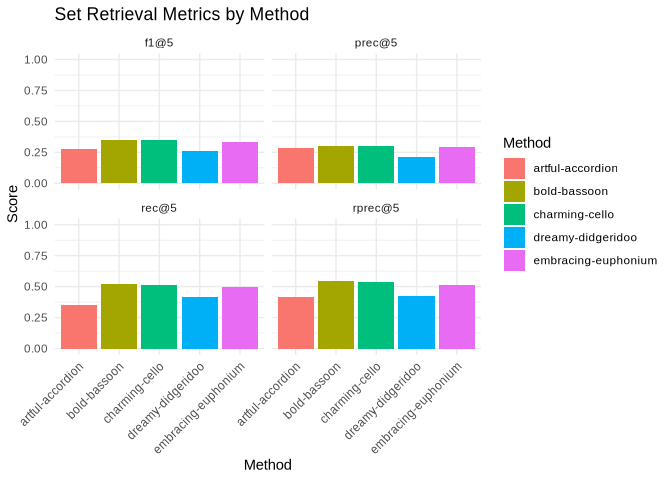
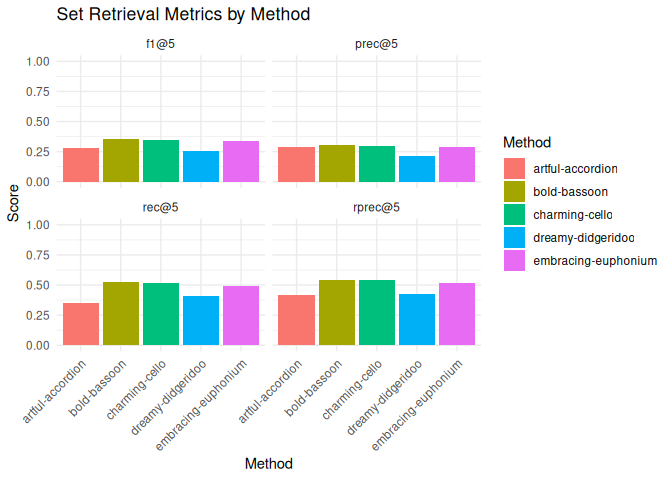
public_jc 20260107

diff --git a/workbooks/02_set-retrieval-metrics.md b/workbooks/02_set-retrieval-metrics.md
@@ -3,8 +3,8 @@ Maximilian Kähler, DNB
 
 - [Computing overall set retrieval
   metrics](#computing-overall-set-retrieval-metrics)
-- [Finding buttom and top performerming
-  labels](#finding-buttom-and-top-performerming-labels)
+- [Finding buttom and top performing
+  labels](#finding-buttom-and-top-performing-labels)
 - [Your Turn](#your-turn)
 - [Bonus: A short digression to modes of
   aggregation](#bonus-a-short-digression-to-modes-of-aggregation)
@@ -26,9 +26,7 @@ metrics such as precision, recall, and F1-score.
 #### More about metrics
 
 <details>
-
 <summary>
-
 Click to expand explanation of metrics
 </summary>
 
@@ -99,7 +97,7 @@ results <- map_dfr(
   .id = "Method"
 )
 
-# bring results to wide tible for better display
+# bring results to wide table for better display
 results |> 
   select(-support) |> 
   pivot_wider(
@@ -141,12 +139,9 @@ ggplot(results, aes(x = Method, y = value, fill = Method)) +
 ![](figures/02_set-retrieval-metrics/plot-metrics-1.png)
 
 <details>
-
 <summary>
-
 Note
 </summary>
-
 Some people prefer to “zoom-in” on a smaller scale of the y-range to
 emphasize the differences between methods. While this is sometimes
 acceptable for visualization purposes, be aware that this can be
@@ -155,10 +150,10 @@ the actual values in the data table to get a true sense of the
 performance differences.
 </details>
 
-## Finding buttom and top performerming labels
+## Finding buttom and top performing labels
 
 If you want to drill down into results on subject level, CASIMiR also
-provides functions to disect results on the intermediate aggregation
+provides functions to dissect results on the intermediate aggregation
 level. The above function `compute_set_retrieval_scores()` is just a
 convenient wrapper around three steps:
 
@@ -167,7 +162,7 @@ convenient wrapper around three steps:
 2.  `compute_intermediate_results()`: computes true positives, false
     positives, and false negatives on the desired aggregation level (per
     document or per subject).
-3.  `summarise_intermediate_results()` computes avarages of the
+3.  `summarise_intermediate_results()` computes averages of the
     intermediate results to yield the final precision, recall, and
     F1-score.
 
@@ -199,7 +194,7 @@ intermed |>
   select(label_id, label_text_eng, tp, fp, fn, prec, rec, f1) |> 
   head(n = 10) |> 
   kable(
-    caption = "Best performing subject terms for artful-accordion with a mininimum of
+    caption = "Best performing subject terms for artful-accordion with a minimum of
      20 gold standard instances."
   )
 ```
@@ -217,8 +212,8 @@ intermed |>
 | 974041238 | Resilience                 |  13 |   1 |  14 | 0.9285714 | 0.4814815 | 0.6341463 |
 | 042979293 | Mindfulness                |  12 |   4 |  10 | 0.7500000 | 0.5454545 | 0.6315789 |
 
-Best performing subject terms for artful-accordion with a mininimum of
-20 gold standard instances.
+Best performing subject terms for artful-accordion with a minimum of 20
+gold standard instances.
 
 ``` r
 intermed |>
@@ -297,7 +292,7 @@ avoids zero-division issues. To be coherent with other packages like
 [scikit-learn](https://scikit-learn.org/stable/modules/generated/sklearn.metrics.f1_score.html),
 you can change this behaviour by using the argument
 `replace_zero_division_with = 0` which will set precision to 0 for
-documents or subject terms with no predictions, if they have occurences
+documents or subject terms with no predictions, if they have occurrences
 in the gold standard.
 
 Observe how much this can influence the overall value of precision and

diff --git a/workbooks/01_inspecting-results-manually.md b/workbooks/01_inspecting-results-manually.md
@@ -88,7 +88,7 @@ the document.
 ### Gold Standard Data
 
 Each of the document titles was manually annotated by subject experts of
-the DNB with subject terms from the Inegrated Authority File (GND).
+the DNB with subject terms from the Integrated Authority File (GND).
 Similar to the document identifiers, each GND subject term has a unique
 identifier, the `label_id`, which can be resolved to the official GND
 record by prefixing the base-url `https://d-nb.info/`,
@@ -123,7 +123,7 @@ head(gold_standard_w_labels)
     5 1122545479 042718368 Prädiktive Regelung Predictive Control 
     6 1122545479 043049168 Systemmodell        System model       
 
-For the rest of this tutorial This is our gold standard data that we
+For the rest of this tutorial this is our gold standard data that we
 compare against.
 
 ### Predictions
